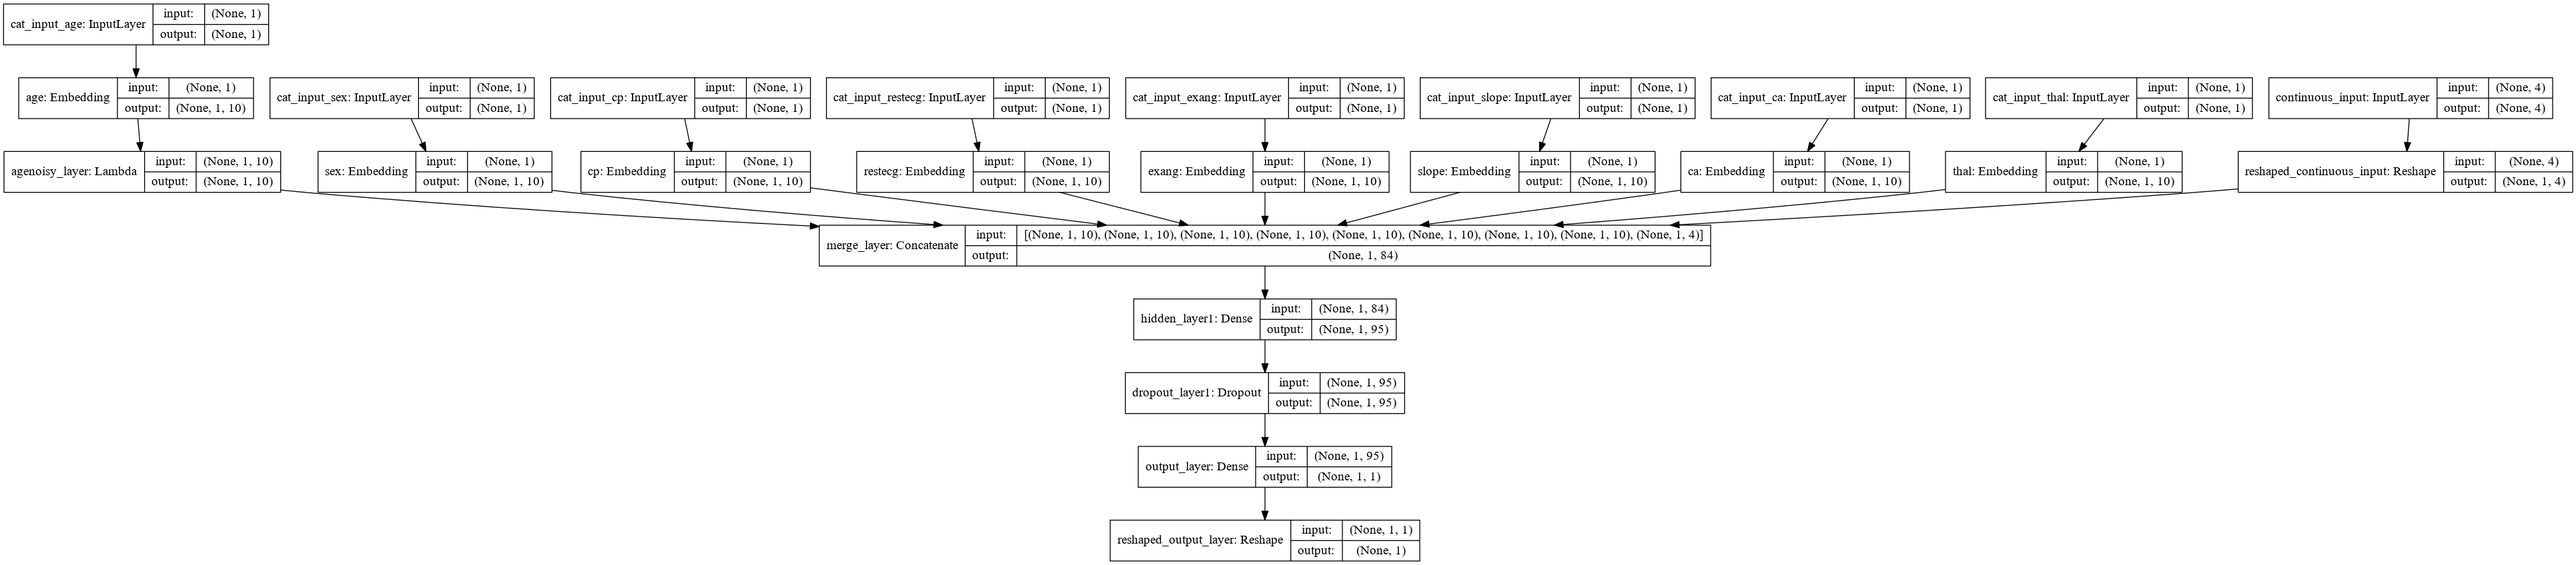
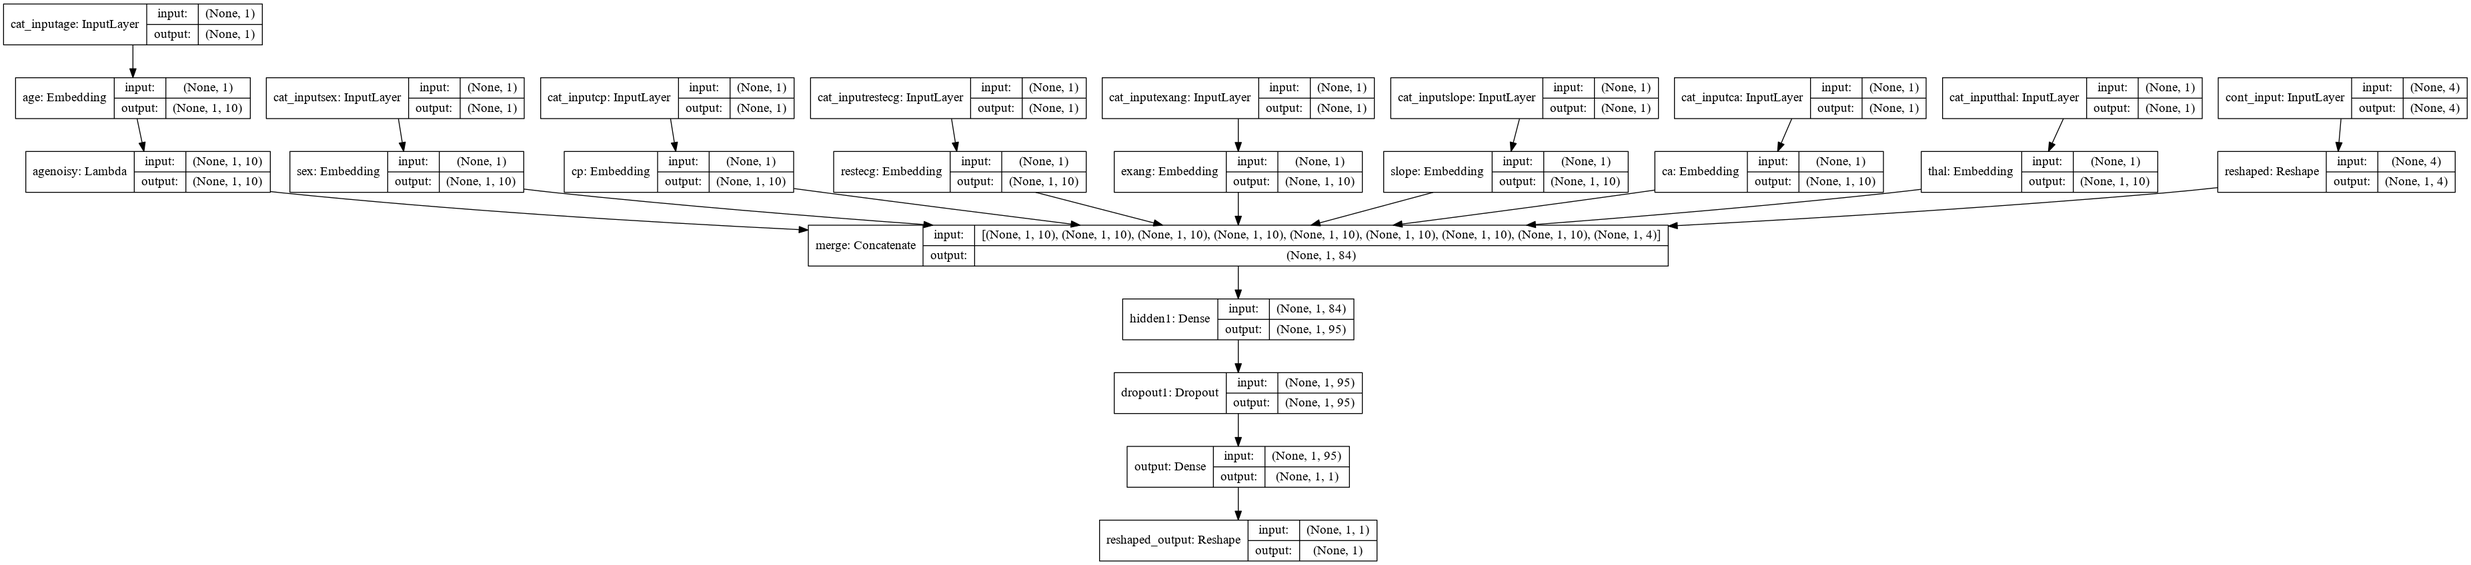
Encapsulate model layers names

diff --git a/package/model/neural_networks.py b/package/model/neural_networks.py
@@ -1,11 +1,29 @@
 from .importing_modules import *
-import re
-from keras.models import load_model, model_from_json, model_from_yaml, Model, clone_model
+from keras.models import load_model, model_from_json, model_from_yaml, Model
 from keras.layers import Concatenate, Input, Embedding, Lambda
 from keras.layers.core import Dense, Dropout, Reshape
 from keras.utils.vis_utils import plot_model
 import tensorflow as tf
 from keras.callbacks import TensorBoard
+
+
+class NeuralNetworkConfig:
+    def __init__(self, categorical_input: str="cat_input", continuous_input: str="cont_input", output: str="output",
+                 reshaped_output: str="reshaped_output", noisy_layer: str="noisy", kernel_initializer: str="uniform",
+                 hidden: str = "hidden", reshaped: str="reshaped", dropout: str="dropout", merge: str="merge",
+                 activation: str="relu", output_activation: str="sigmoid"):
+        self.kernel_initializer = kernel_initializer
+        self.activation = activation
+        self.output_activation = output_activation
+        self.cont_input = continuous_input
+        self.cat_input = categorical_input
+        self.hidden = hidden
+        self.noisy_layer = noisy_layer
+        self.reshaped = reshaped
+        self.merge = merge
+        self.dropout = dropout
+        self.output = output
+        self.reshaped_output = reshaped_output
 
 
 class NeuralNetwork:
@@ -16,9 +34,9 @@ class NeuralNetwork:
         return self.__model
 
     @classmethod
-    def from_scratch(cls, categorical_data, continuous_features: int, hidden_units: int,
+    def from_scratch(cls, config: NeuralNetworkConfig, categorical_data, continuous_features: int, hidden_units: int,
                      noise_rate: float=None, noisy_column=None, embedding_size: int=10, dropout_rate: float=0.2,
-                     kernel_initializer="uniform", output_units=1):
+                     output_units=1):
 
         if isinstance(categorical_data, pd.DataFrame):
             categorical_data_categories = {}
@@ -26,8 +44,8 @@ class NeuralNetwork:
                 categorical_data_categories[column] = categorical_data[column].cat.categories.size
             categorical_data = categorical_data_categories
 
-        model = NeuralNetwork._build(categorical_data, continuous_features, hidden_units, embedding_size, noisy_column,
-                                     noise_rate, dropout_rate, kernel_initializer, output_units)
+        model = NeuralNetwork._build(config, categorical_data, continuous_features, hidden_units, embedding_size, noisy_column,
+                                     noise_rate, dropout_rate, output_units)
         return cls(model)
 
     @classmethod
@@ -50,60 +68,69 @@ class NeuralNetwork:
         return x * (1 + rate)
 
     @staticmethod
-    def _build(categorical_data_categories, continuous_features: int, hidden_units: int, embedding_size: int,
-               noisy_column, noise_rate: float, dropout_rate: float, kernel_initializer: str, output_units: int):
-        activation = 'relu'
-        output_activation = 'sigmoid'
+    def _build(config, categorical_data_categories, continuous_features: int, hidden_units: int, embedding_size: int,
+               noisy_column, noise_rate, dropout_rate, output_units: int):
 
         # create input layer for continuous data
-        continuous_input = Input(shape=(continuous_features,), name="continuous_input")
+        continuous_input = Input(shape=(continuous_features,), name=config.cont_input)
         if noisy_column and isinstance(noisy_column, int):
             noise_layer = Lambda(NeuralNetwork._add_noise_to_column, arguments={'column': noisy_column,
                                                                                 'rate': noise_rate},
-                                 name=str(noisy_column)+"noisy_layer")
+                                 name=str(noisy_column)+config.noisy_layer)
 
             continuous_input = noise_layer(continuous_input)
             noisy_column = None
         reshaped_continuous_input = Reshape((1, continuous_features),
-                                            name="reshaped_continuous_input")(continuous_input)
+                                            name=config.reshaped)(continuous_input)
 
         # create input layers complemented by embedding layers to handle categorical features
         embedding_layers = []
         categorical_inputs = []
         for feature, size in categorical_data_categories.items():
-            categorical_input = Input((1,), name="cat_input_"+feature)
+            categorical_input = Input((1,), name=config.cat_input+feature)
             categorical_inputs.append(categorical_input)
             embedding_layer = Embedding(size + 1, embedding_size, name=feature)(categorical_input)
             if noisy_column == feature:
                 categorical_noisy_layer = Lambda(NeuralNetwork._add_noise, arguments={'rate': noise_rate},
-                                                 name=str(noisy_column)+"noisy_layer")
+                                                 name=str(noisy_column)+config.noisy_layer)
                 embedding_layer = categorical_noisy_layer(embedding_layer)
             embedding_layers.append(embedding_layer)
 
         # merge all inputs
-        merge_layer = Concatenate(name="merge_layer")(embedding_layers + [reshaped_continuous_input])
+        merge_layer = Concatenate(name=config.merge)(embedding_layers + [reshaped_continuous_input])
 
         # hidden layers
-        hidden_layer1 = Dense(hidden_units, activation=activation, kernel_initializer=kernel_initializer,
-                              name="hidden_layer1")(merge_layer)
-        dropout_layer1 = Dropout(dropout_rate, name="dropout_layer1")(hidden_layer1)
+        hidden_layer1 = Dense(hidden_units, activation=config.activation, kernel_initializer=config.kernel_initializer,
+                              name=config.hidden+"1")(merge_layer)
+        dropout_layer1 = Dropout(dropout_rate, name=config.dropout+"1")(hidden_layer1)
 
         # output_layer
-        output_layer = Dense(output_units, activation=output_activation, name="output_layer")(dropout_layer1)
+        output_layer = Dense(output_units, activation=config.output_activation, name=config.output)(dropout_layer1)
 
         # add reshape layer since output should be vector
-        output_layer = Reshape((1,), name="reshaped_output_layer")(output_layer)
+        output_layer = Reshape((1,), name=config.reshaped_output)(output_layer)
 
         # create final model
         model = Model(inputs=categorical_inputs + [continuous_input], outputs=output_layer)
         return model
 
+    def get_layer(self, name):
+        return self.__model.get_layer(name)
+
     def get_weights(self):
+        return self.__model.get_weights()
+
+    def get_weights_by_name(self):
+        model = self.__model
+        names = [layer.name for layer in model.layers]
         weights = []
-        for layer in self.__model.layers:
-            layer_weights = layer.get_weights()
-            weights.append(layer_weights)
-        return weights
+        for name in names:
+            weights.append(model.get_layer(name).get_weights())
+        return dict(zip(names, weights))
+
+    def set_weights_by_name(self, weigths):
+        for name, weigth in weigths.items():
+            self.__model.get_layer(name).set_weights(weigth)
 
     def save_plot(self, to_file='model_plot.png', shapes=True, layer_names=True):
         plot_model(self.__model, to_file=to_file, show_shapes=shapes, show_layer_names=layer_names)
@@ -126,38 +153,24 @@ class NeuralNetwork:
 
 
 class FeatureSelector:
-    def __init__(self, nnet: NeuralNetwork, categorical_data):
-        self._nnet = nnet
-        self._weights = FeatureSelector._get_w(nnet)
-        self._cat_data = categorical_data
-        self._cat_input_shape = self._nnet.get_model().get_layer("cat_input_age").get_input_shape_at(0)
-        self._cont_input_shape = self._nnet.get_model().get_layer("continuous_input").get_input_shape_at(0)[-1]
-        self._hid_size = self._nnet.get_model().get_layer("hidden_layer1").get_output_shape_at(0)[-1]
-        self._emb_size = self._nnet.get_model().get_layer("age").get_output_shape_at(0)[-1]
-        self._dropout_rate = self._nnet.get_model().get_layer("dropout_layer1").get_config()['rate']
-        self._build_network()
+    def __init__(self, config: NeuralNetworkConfig, nnet: NeuralNetwork, categorical_data):
+        self._source_model = nnet
+        self._weights = self._source_model.get_weights_by_name()
+        self._cat_input_shape = self._source_model.get_layer(config.cat_input+"age").get_input_shape_at(0)
+        self._cont_input_shape = self._source_model.get_layer(config.cont_input).get_input_shape_at(0)[-1]
+        self._hid_size = self._source_model.get_layer(config.hidden+"1").get_output_shape_at(0)[-1]
+        self._emb_size = self._source_model.get_layer("age").get_output_shape_at(0)[-1]
+        self._dropout_rate = self._source_model.get_layer(config.dropout+"1").get_config()['rate']
+        self._noisy_model = self._build_network(config, categorical_data)
 
-    def _build_network(self):
-        m = NeuralNetwork.from_scratch(categorical_data=self._cat_data, continuous_features=self._cont_input_shape,
-                                       hidden_units=self._hid_size, embedding_size=self._emb_size,
-                                       dropout_rate=self._dropout_rate, noise_rate=100, noisy_column="age")
-        m.save_plot("noisy_model_plot.png", shapes=True, layer_names=True)
-        FeatureSelector._set_w(m, self._weights)
-
-    @staticmethod
-    def _get_w(nnet):
-        model = nnet.get_model()
-        names = [re.match("[^/]*", weight.name).group() for layer in model.layers for weight in layer.weights]
-        weights = []
-        for i in names:
-            weights.append(model.get_layer(i).get_weights())
-        return dict(zip(names, weights))
-
-    @staticmethod
-    def _set_w(nnet, weigths):
-        model = nnet.get_model()
-        for name, weigth in weigths.items():
-            model.get_layer(name).set_weights(weigth)
+    def _build_network(self, config, cat_data):
+        noisy_model = NeuralNetwork.from_scratch(config=config, categorical_data=cat_data,
+                                                 continuous_features=self._cont_input_shape,
+                                                 hidden_units=self._hid_size, embedding_size=self._emb_size,
+                                                 dropout_rate=self._dropout_rate, noise_rate=100, noisy_column="age")
+        noisy_model.save_plot("noisy_model_plot.png", shapes=True, layer_names=True)
+        noisy_model.set_weights_by_name(self._weights)
+        return noisy_model
 
 
 class NNTrainer:

diff --git a/main.py b/main.py
@@ -3,7 +3,7 @@ import argparse
 from PyQt5.QtCore import QCoreApplication
 from package.model.input_handlers import SqlAlchemyDBHandler, QtSqlDBHandler, DataFileHandler
 from package.model.datasets import DataSet
-from package.model.neural_networks import NeuralNetwork, NNTrainer, NNPredictor, FeatureSelector
+from package.model.neural_networks import NeuralNetwork, NNTrainer, NNPredictor, FeatureSelector, NeuralNetworkConfig
 
 
 if __name__ == '__main__':
@@ -56,7 +56,8 @@ if __name__ == '__main__':
         training_target = preprocessed_data.get_data()['num'].values
 
         # Create neural network model
-        network = NeuralNetwork.from_scratch(cat_data, cont_data.shape[-1], hidden_units=95, dropout_rate=0.2)
+        config = NeuralNetworkConfig()
+        network = NeuralNetwork.from_scratch(config, cat_data, cont_data.shape[-1], hidden_units=95, dropout_rate=0.2)
         network.save_plot('model_plot.png')
         network.compile(loss='binary_crossentropy', optimizer='adam')
 
@@ -66,8 +67,7 @@ if __name__ == '__main__':
         trainer = NNTrainer(network, [*cat_data, cont_data], training_target, epochs=100)
         trainer.train(verbose=1)
         trainer.evaluate()
-
-        feature_selector = FeatureSelector(network, training_data.select_dtypes(include='category').drop(columns='num'))
+        feature_selector = FeatureSelector(config, network, training_data.select_dtypes(include='category').drop(columns='num'))
 
         test_data = DataSet.copy(dataset, start=242, without_resulting_feature=True)
         test_data.update_features()
